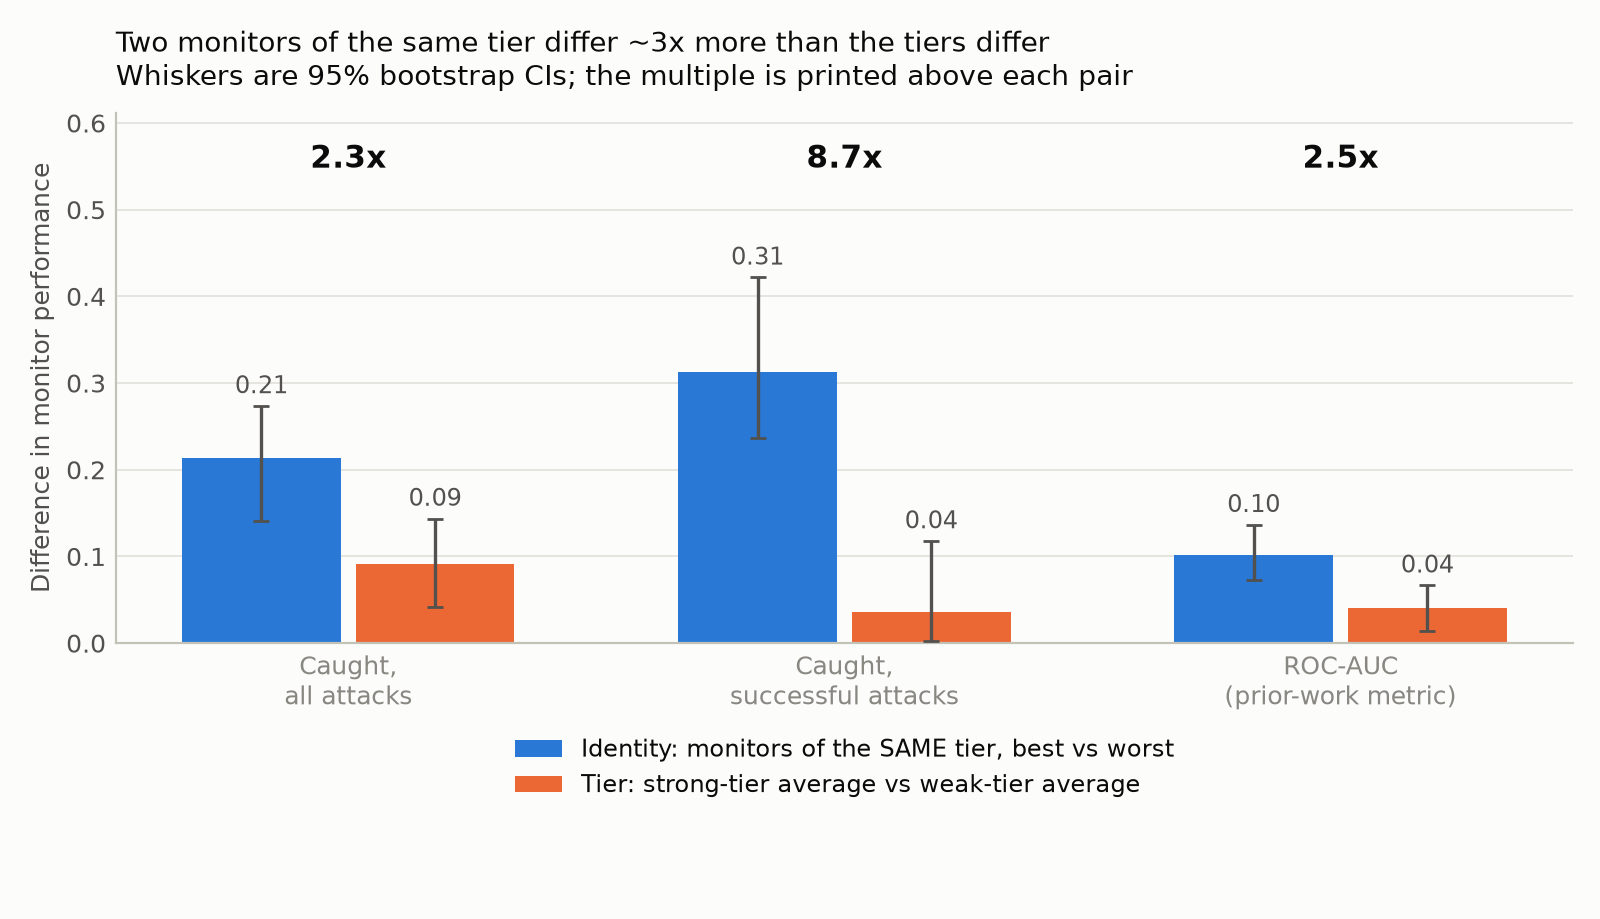
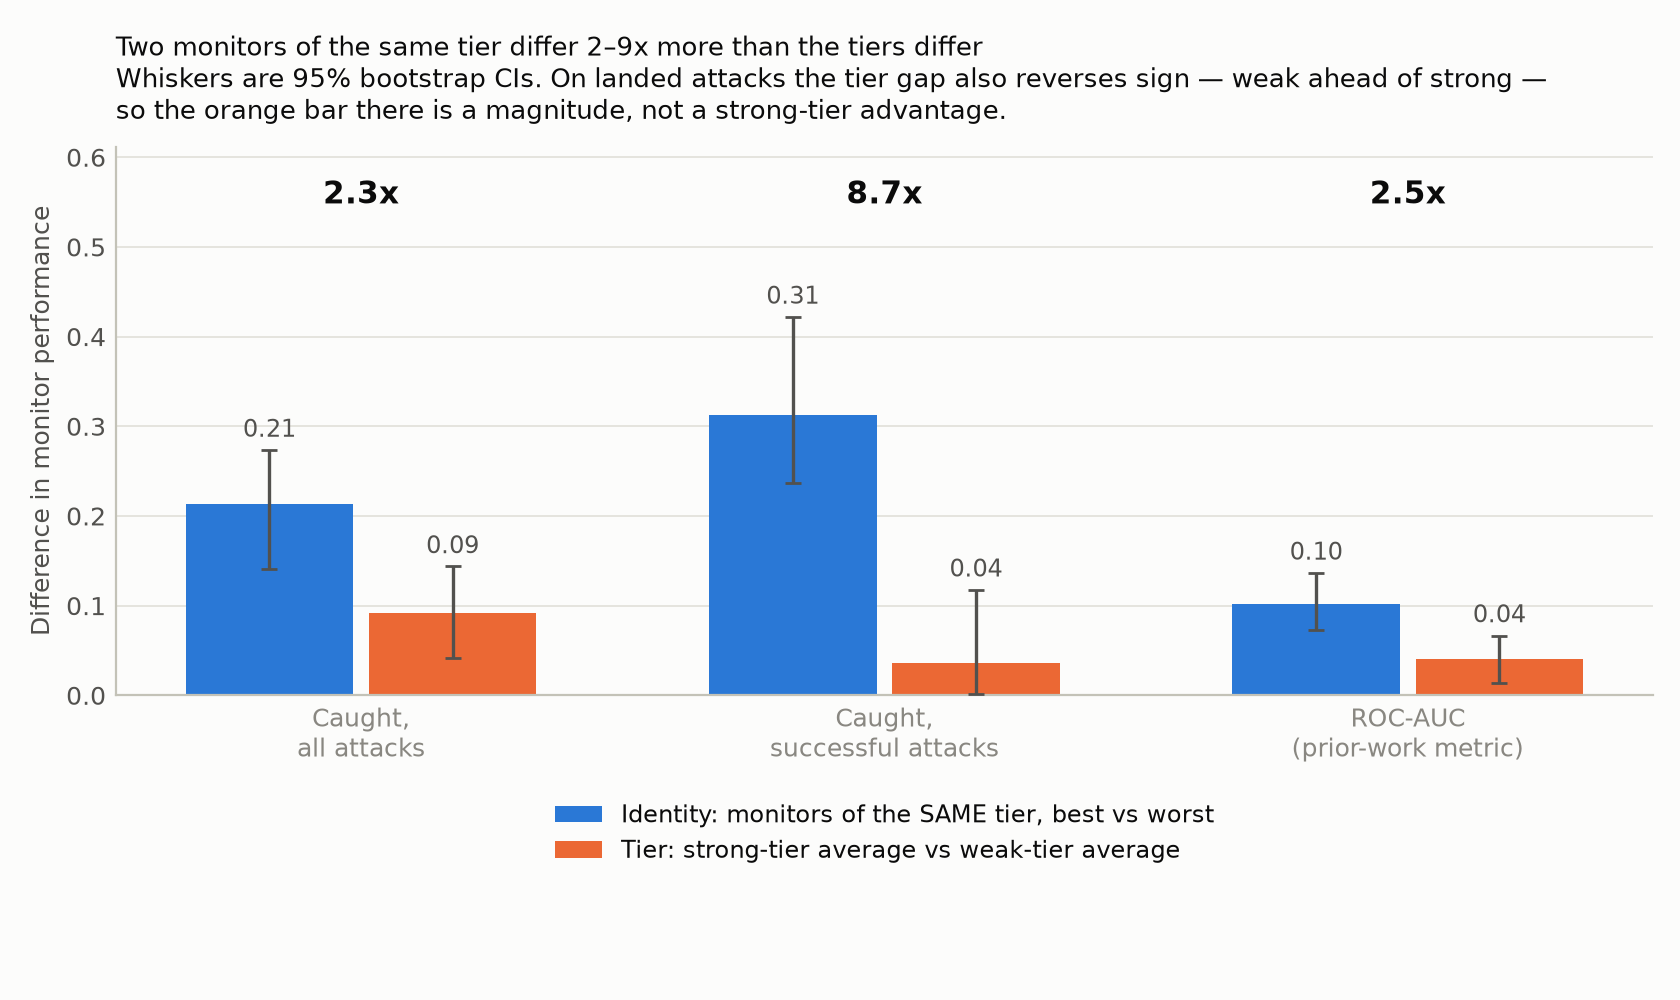
QA pass on all figures: colours, labels, wording, and data verification
Verified every plotted value against the score cache: the heatmap's 24 AUCs,
fig8's six ladder series, fig7's multiples, fig10's seven monitor rows and
fig11's pairing grid all match the cells exactly. fig4's '0.24-0.44' swing range
still holds after the recovered cell (its swing is 0.262, inside the range).

fig2 heatmap - the readability fix:
  - RdYlGn replaced with a sequential single-hue Blues ramp. AUC is a magnitude,
    so a rainbow implies a midpoint that does not exist, and red-to-green is the
    worst possible choice for colour-vision deficiency.
  - scale now starts at 0.50 because that is chance, not an arbitrary 0.45
  - unpaired cells were rendering WHITE, which on a ramp whose light end is 0.50
    read as a measured chance-level AUC; they are now grey and labelled
  - raw keys (opus48, gpt41mini) replaced with display labels
  - cell ink switches to white over dark fills so every number stays legible
  - Opus row marked '(row excluded)' so the chance-level band is self-explaining

fig3 mirage - three translucent bands on one axis turned to mud exactly at the
wide low-n end where the point lives. Now small multiples, one cell per panel,
shared y-scale, with CI width annotated at both ends (0.67 -> 0.21). Subtitle
corrected: it said 'same cell' while showing three different cells.

fig7 - title said '~3x' when the multiples are 2.3x / 8.7x / 2.5x. Now states
the range and warns that the tier gap reverses sign on landed attacks, so the
[…]

diff --git a/scripts/make_legacy_figures.py b/scripts/make_legacy_figures.py
@@ -146,28 +146,54 @@ def fig_heatmap(df: pd.DataFrame) -> None:
     M = np.full((len(atks), len(mons)), np.nan)
     for _, r in df.iterrows():
         M[atks.index(r.attacker), mons.index(r.monitor)] = r.auc
-    fig, ax = plt.subplots(figsize=(1.1 * len(mons) + 3, 1.0 * len(atks) + 2.5))
-    im = ax.imshow(M, cmap="RdYlGn", vmin=0.45, vmax=0.85, aspect="auto")
-    ax.set_xticks(range(len(mons)))
-    ax.set_xticklabels([f"{m}\n({PROVIDER[m][0]}, {PROVIDER[m][1]})" for m in mons], fontsize=7, rotation=45, ha="right")
-    ax.set_yticks(range(len(atks)))
-    ax.set_yticklabels([f"{a}\n({PROVIDER[a][0]})" for a in atks], fontsize=8)
+    fig, ax = plt.subplots(figsize=(1.15 * len(mons) + 3, 1.0 * len(atks) + 3))
+    # AUC is a magnitude, so it gets a SEQUENTIAL single-hue ramp (light = low,
+    # dark = high). The previous RdYlGn was a rainbow on a magnitude - it implies
+    # a meaningless midpoint, and red-to-green is the single worst choice for
+    # colour-vision deficiency. Range starts at 0.5 because that is chance.
+    im = ax.imshow(M, cmap="Blues", vmin=0.50, vmax=0.80, aspect="auto")
+    # Unpaired cells must not read as "chance-level AUC" - on a ramp whose light
+    # end IS 0.50 an empty white square looks like a measured value. Grey them.
     for i in range(len(atks)):
         for j in range(len(mons)):
             if np.isnan(M[i, j]):
-                ax.text(j, i, "—", ha="center", va="center", c="gray")
+                ax.add_patch(plt.Rectangle((j - .5, i - .5), 1, 1,
+                                           facecolor="#e8e7e1", edgecolor="none", zorder=2))
+    ax.set_xticks(range(len(mons)))
+    ax.set_xticklabels([f"{config.LABEL[m]}\n{PROVIDER[m][1]}" for m in mons],
+                       fontsize=7.5, rotation=45, ha="right")
+    ax.set_yticks(range(len(atks)))
+    ax.set_yticklabels(
+        [config.LABEL[a] + ("\n(row excluded)" if a == "opus48" else "") for a in atks],
+        fontsize=8.5)
+    for i in range(len(atks)):
+        for j in range(len(mons)):
+            if np.isnan(M[i, j]):
+                ax.text(j, i, "not\npaired", ha="center", va="center",
+                        c="#898781", fontsize=6.5, linespacing=1.3, zorder=3)
                 continue
             same = PROVIDER[atks[i]][0] == PROVIDER[mons[j]][0]
-            ax.text(j, i, f"{M[i,j]:.2f}" + ("\n(same)" if same else ""),
-                    ha="center", va="center", fontsize=7,
+            # Ink must stay legible against both ends of the ramp.
+            ink = "#ffffff" if M[i, j] > 0.69 else "#0b0b0b"
+            ax.text(j, i, f"{M[i,j]:.2f}", ha="center", va="center",
+                    fontsize=8.5, color=ink,
                     fontweight="bold" if same else "normal")
             if same:
-                ax.add_patch(plt.Rectangle((j - .5, i - .5), 1, 1, fill=False, ec="black", lw=2))
-    fig.colorbar(im, ax=ax, label="Monitor AUC")
-    ax.set_xlabel("Monitor"); ax.set_ylabel("Attacker")
-    ax.set_title("H2: does monitor provenance matter?\nboxed = same model family as attacker", fontsize=10)
+                ax.add_patch(plt.Rectangle((j - .5, i - .5), 1, 1, fill=False,
+                                           ec="#eb6834", lw=2.4, zorder=5))
+    cbar = fig.colorbar(im, ax=ax, label="Monitor AUC  (0.50 = chance)", pad=0.02, shrink=0.82)
+    cbar.outline.set_visible(False)
+    ax.set_xlabel("Monitor", labelpad=8)
+    ax.set_ylabel("Attacker", labelpad=8)
+    ax.set_title("Monitor AUC across the full matrix\n"
+                 "Orange outline = monitor from the attacker's own model family. "
+                 "The Opus row is pinned at chance because that attacker never landed attacks.",
+                 fontsize=10, loc="left")
+    ax.tick_params(length=0)
+    for sp in ax.spines.values():
+        sp.set_visible(False)
     fig.tight_layout()
-    fig.savefig(f"{OUT}/fig2_heatmap.png", dpi=150)
+    fig.savefig(f"{OUT}/fig2_heatmap.png", dpi=200)
 
 
 def fig_mirage(df: pd.DataFrame, n_boot: int = 400) -> None:
@@ -176,12 +202,17 @@ def fig_mirage(df: pd.DataFrame, n_boot: int = 400) -> None:
     cells = df[df.n_success_atk >= 5].head(3)  # only cells where attacks actually landed
     if cells.empty:
         return
-    fig, ax = plt.subplots(figsize=(6.5, 4.2))
-    for _, r in cells.iterrows():
+    # Small multiples rather than three translucent bands on one axis: overlapping
+    # fills turn to mud exactly where they matter most (the wide low-n end), and
+    # the comparison here is shape-against-shape, not value-against-value.
+    fig, axes = plt.subplots(1, len(cells), figsize=(3.5 * len(cells) + 0.6, 3.9),
+                             sharey=True)
+    axes = np.atleast_1d(axes)
+    for ax, (_, r) in zip(axes, cells.iterrows()):
         d = samples_df(os.path.join(ROOT, f"atk-{r.attacker}__mon-{r.monitor}__n{LIMIT}")).copy()
         d[SC] = pd.to_numeric(d[SC], errors="coerce"); d = d.dropna(subset=[SC])
         h, a = d[d.eval_mode == "honest"], d[d.eval_mode == "attack"]
-        ns, los, his = [], [], []
+        ns, los, his, mids = [], [], [], []
         for n in (10, 25, 50, 100):
             if len(h) < n or len(a) < n:
                 continue
@@ -194,17 +225,35 @@ def fig_mirage(df: pd.DataFrame, n_boot: int = 400) -> None:
                     pass
             if vals:
                 v = np.array(vals, float)
-                ns.append(n); los.append(np.percentile(v, 2.5)); his.append(np.percentile(v, 97.5))
-        if ns:
-            ax.fill_between(ns, los, his, alpha=0.25)
-            ax.plot(ns, [(l + h_) / 2 for l, h_ in zip(los, his)], "o-",
-                    label=f"{r.attacker} / {r.monitor}")
-    ax.set_xscale("log"); ax.set_xticks([10, 25, 50, 100]); ax.set_xticklabels(["10", "25", "50", "100"])
-    ax.set_xlabel("Samples per mode"); ax.set_ylabel("Safety @5% (95% bootstrap CI)")
-    ax.set_title("H3: at tutorial scale, safety is uninterpretable", fontsize=11)
-    ax.grid(alpha=0.3); ax.legend(fontsize=8); ax.set_ylim(-0.05, 1.05)
-    fig.tight_layout()
-    fig.savefig(f"{OUT}/fig3_mirage.png", dpi=150)
+                ns.append(n); los.append(np.percentile(v, 2.5))
+                his.append(np.percentile(v, 97.5)); mids.append(np.median(v))
+        if not ns:
+            continue
+        ax.fill_between(ns, los, his, color="#2a78d6", alpha=0.20, lw=0)
+        ax.plot(ns, los, color="#2a78d6", lw=1.0, alpha=0.6)
+        ax.plot(ns, his, color="#2a78d6", lw=1.0, alpha=0.6)
+        ax.plot(ns, mids, "o-", color="#2a78d6", lw=2, ms=6, mec="#fcfcfb", mew=1.4)
+        ax.annotate(f"width {his[0] - los[0]:.2f}", (ns[0], his[0]), fontsize=7.5,
+                    color="#52514e", xytext=(2, 5), textcoords="offset points")
+        ax.annotate(f"width {his[-1] - los[-1]:.2f}", (ns[-1], his[-1]), fontsize=7.5,
+                    color="#52514e", ha="right", xytext=(-2, 5), textcoords="offset points")
+        ax.set_xscale("log"); ax.set_xticks([10, 25, 50, 100])
+        ax.set_xticklabels(["10", "25", "50", "100"])
+        ax.set_title(f"{config.LABEL[r.monitor]}\nvs {config.LABEL[r.attacker]} attacker",
+                     fontsize=9, color="#0b0b0b")
+        ax.set_xlabel("Samples per mode", fontsize=8.5)
+        ax.grid(axis="y", color="#e1e0d9", lw=0.6)
+        ax.set_axisbelow(True)
+        for sp in ("top", "right"):
+            ax.spines[sp].set_visible(False)
+        ax.tick_params(length=0)
+    axes[0].set_ylabel("Safety @5%  (95% bootstrap CI)", fontsize=8.5)
+    axes[0].set_ylim(-0.05, 1.05)
+    fig.suptitle("At tutorial scale a safety number carries almost no information\n"
+                 "Three cells, unchanged protocol. Within each panel the only thing varying is the sample count.",
+                 fontsize=11, x=0.01, ha="left")
+    fig.tight_layout(rect=[0, 0, 1, 0.88])
+    fig.savefig(f"{OUT}/fig3_mirage.png", dpi=200)
 
 
 def fig_elicitation(df: pd.DataFrame) -> None:

diff --git a/scripts/make_identity_figures.py b/scripts/make_identity_figures.py
@@ -101,7 +101,7 @@ def fig_spread(scores: dict, both: pd.DataFrame, out: str) -> None:
         cis.append({k: np.percentile(v, [2.5, 97.5]) for k, v in draws.items()})
 
     top = max(c["within"][1] for c in cis)
-    fig, ax = plt.subplots(figsize=(8.0, 4.6))
+    fig, ax = plt.subplots(figsize=(8.4, 5.0))
     x = np.arange(len(panels))
     width = 0.32
     series = (("within", "Identity: monitors of the SAME tier, best vs worst", viz.SERIES[0]),
@@ -126,10 +126,12 @@ def fig_spread(scores: dict, both: pd.DataFrame, out: str) -> None:
     viz.style_axis(ax, axis="y")
     ax.set_ylabel("Difference in monitor performance", color=viz.INK_SECONDARY)
     ax.legend(frameon=False, fontsize=8.5, loc="upper center",
-              bbox_to_anchor=(0.5, -0.14), ncol=1)
-    ax.set_title("Two monitors of the same tier differ ~3x more than the tiers differ\n"
-                 "Whiskers are 95% bootstrap CIs; the multiple is printed above each pair",
-                 loc="left", color=viz.INK, pad=10)
+              bbox_to_anchor=(0.5, -0.16), ncol=1)
+    ax.set_title("Two monitors of the same tier differ 2–9x more than the tiers differ\n"
+                 "Whiskers are 95% bootstrap CIs. On landed attacks the tier gap also reverses "
+                 "sign — weak ahead of strong —\nso the orange bar there is a magnitude, not a "
+                 "strong-tier advantage.",
+                 loc="left", color=viz.INK, pad=10, fontsize=9.5)
     fig.tight_layout(rect=[0, 0.06, 1, 1])
     fig.savefig(f"{out}/fig7_spread_vs_tier.png", dpi=200)
     plt.close(fig)
@@ -137,7 +139,7 @@ def fig_spread(scores: dict, both: pd.DataFrame, out: str) -> None:
 
 def fig_ladders(cells: pd.DataFrame, out: str) -> None:
     """Within one family the ladder behaves; on landed attacks it inverts."""
-    panels = (("auc", "ROC-AUC\n(what the original post used)"),
+    panels = (("auc", "ROC-AUC\n(the uncorrected metric)"),
               ("tpr0", "Caught, all attacks"),
               ("tpr0_succ", "Caught, successful attacks only"))
     fig, axes = plt.subplots(1, 3, figsize=(11.2, 3.9))

diff --git a/scripts/make_table_figures.py b/scripts/make_table_figures.py
@@ -195,15 +195,12 @@ def fig_design(scores: dict, out: str) -> None:
     fig.suptitle("The design: 3 attackers x 8 monitors each — all 24 cells ran at n=200",
                  fontsize=12.5, x=0.008, ha="left", color=viz.INK, fontweight="bold")
     ax.text(0, 1.0, "", transform=ax.transAxes)
-    fig.text(0.008, 0.885,
-             "Each attacker is paired with its own family's full three-tier ladder, plus the weak and strong "
-             "tier of each other family, plus Qwen. Mid-tier monitors\nappear only in their own family's row. "
-             "Every paired cell was run to completion at 200 samples (100 honest + 100 attack).\n"
-             "The eight hatched cells ran too — they are excluded from the analysis afterwards because their "
-             "ATTACKER landed one successful attack in 100,\nso every metric in that row rests on a single "
-             "event. The exclusion is a property of the row, not of any monitor.",
+    fig.text(0.008, 0.90,
+             "Every paired cell ran to completion at 200 samples. The hatched Opus cells ran too — they are "
+             "excluded afterwards because that\nATTACKER landed one successful attack in 100, so the whole row "
+             "rests on a single event.",
              ha="left", va="top", fontsize=8.5, color=viz.INK_SECONDARY, linespacing=1.5)
-    fig.tight_layout(rect=[0.02, 0.06, 1, 0.82])
+    fig.tight_layout(rect=[0.02, 0.06, 1, 0.86])
     fig.savefig(f"{out}/fig11_design.png", dpi=220, bbox_inches="tight")
     plt.close(fig)
 
